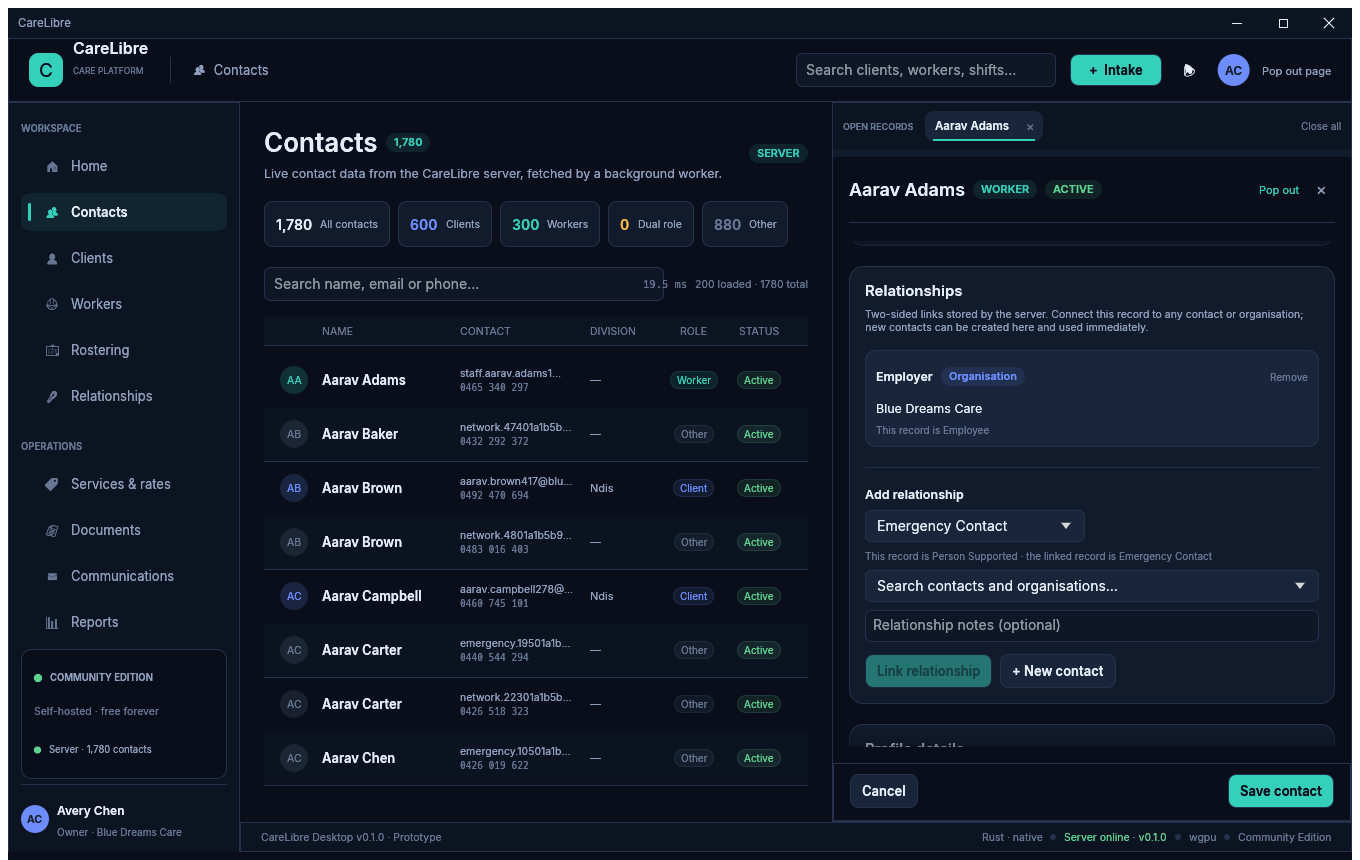
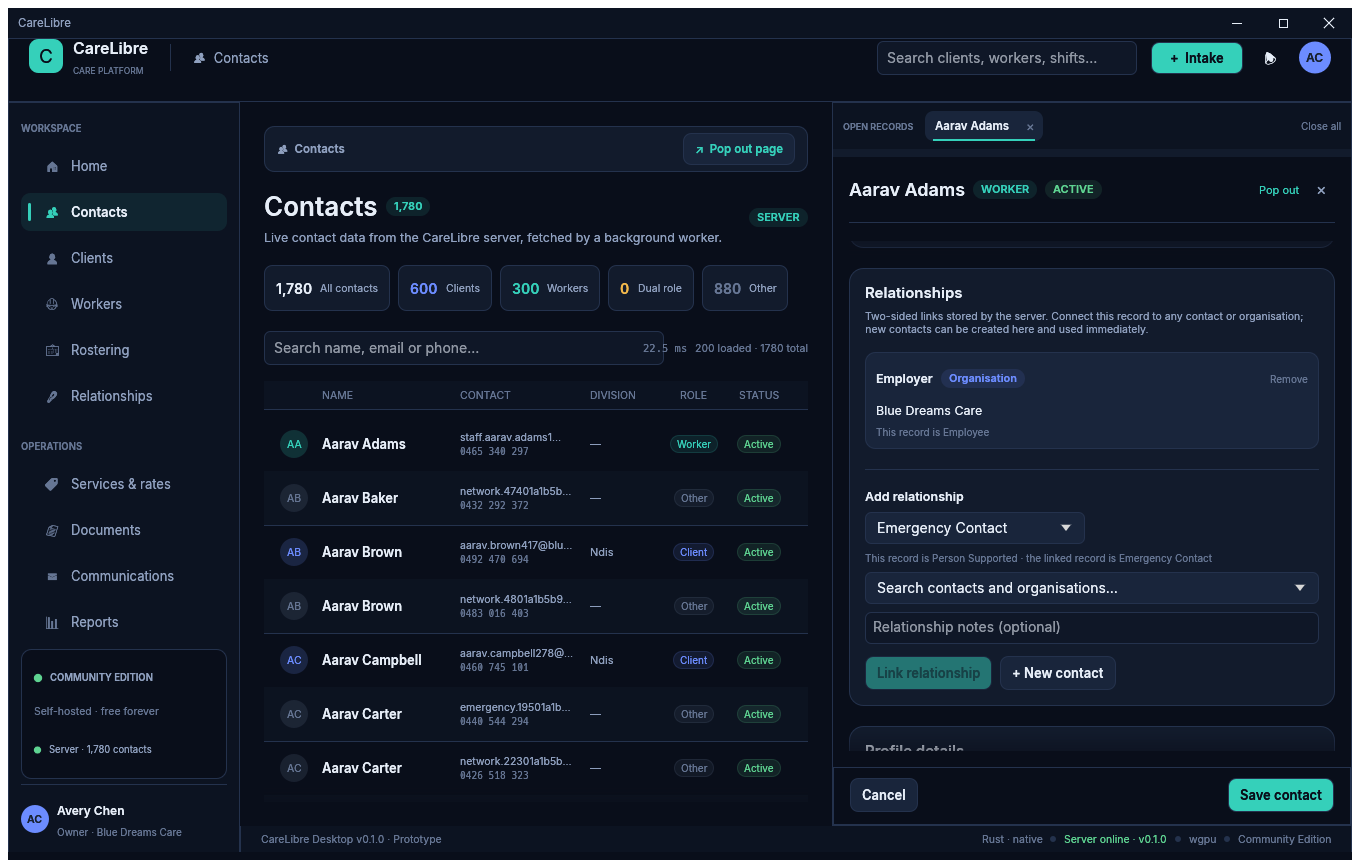
Move page pop-out into the pane toolbar
- Add a page toolbar at the top of the content pane showing the open page
  and a prominent “↗ Pop out page” / “↙ Dock page” button
- Remove the page pop-out control from the global top navigation so it is
  clear the action applies to the open page, not the whole interface
- Keep the existing labels and give the control an explicit accessible name
  alongside the new glyph
- Refresh the README screenshots and thumbnails with the new toolbar

diff --git a/src/app.rs b/src/app.rs
@@ -439,6 +439,8 @@ impl CareLibreApp {
                     .inner_margin(Margin::same(24)),
             )
             .show(ui, |ui| {
+                self.page_toolbar(ui);
+                ui.add_space(10.0);
                 if page_progress < 1.0 {
                     let enter = theme::ease_out(page_progress);
                     ui.multiply_opacity(0.35 + 0.65 * enter);
@@ -1242,6 +1244,58 @@ impl CareLibreApp {
         }
     }
 
+    /// The pane toolbar: identifies the open page and offers the page-level
+    /// pop-out control.
+    fn page_toolbar(&mut self, ui: &mut Ui) {
+        let page = self.page;
+        let popped = self.popped_pages.contains(&page);
+        let mut toggle = false;
+
+        Frame::new()
+            .fill(theme::surface())
+            .stroke(Stroke::new(1.0, theme::border()))
+            .corner_radius(CornerRadius::same(10))
+            .inner_margin(Margin::symmetric(12, 6))
+            .show(ui, |ui| {
+                ui.horizontal(|ui| {
+                    ui.label(
+                        RichText::new(format!("{}  {}", page.icon(), page.label()))
+                            .color(theme::muted())
+                            .font(theme::strong_font(11.5)),
+                    );
+                    ui.with_layout(Layout::right_to_left(Align::Center), |ui| {
+                        let label = if popped { "Dock page" } else { "Pop out page" };
+                        let glyph = if popped { "↙" } else { "↗" };
+                        let button = egui::Button::new(
+                            RichText::new(format!("{glyph}  {label}"))
+                                .color(theme::accent())
+                                .font(theme::strong_font(11.5)),
+                        )
+                        .fill(theme::surface_raised())
+                        .stroke(Stroke::new(1.0, theme::border()))
+                        .corner_radius(CornerRadius::same(8))
+                        .min_size(vec2(0.0, 30.0));
+                        let response = ui.add(button);
+                        response.widget_info(|| {
+                            egui::WidgetInfo::labeled(egui::Role::Button, true, label)
+                        });
+                        if response.clicked() {
+                            toggle = true;
+                        }
+                        response.on_hover_text(if popped {
+                            "Bring this page back into the main window"
+                        } else {
+                            "Open this page in its own native window"
+                        });
+                    });
+                });
+            });
+
+        if toggle {
+            self.toggle_page_popout(ui.ctx(), page);
+        }
+    }
+
     /// Placeholder shown in the main window when the current page lives in its
     /// own native window.
     fn detached_page_placeholder(&mut self, ui: &mut Ui) {
@@ -1358,7 +1412,7 @@ impl CareLibreApp {
                             .stroke(Stroke::new(1.0, theme::border())),
                     )
                     .show(ui, |ui| {
-                        ui.horizontal_centered(|ui| {
+                        ui.horizontal(|ui| {
                             ui.label(
                                 RichText::new(format!("{}  {}", page.icon(), page.label()))
                                     .color(theme::text())
@@ -3475,7 +3529,7 @@ impl CareLibreApp {
                     .stroke(Stroke::new(1.0, theme::border())),
             )
             .show(ui, |ui| {
-                ui.horizontal_centered(|ui| {
+                ui.horizontal(|ui| {
                     // Brand
                     let (logo, _) = ui.allocate_exact_size(vec2(34.0, 34.0), Sense::hover());
                     ui.painter()
@@ -3510,26 +3564,6 @@ impl CareLibreApp {
                     );
 
                     ui.with_layout(Layout::right_to_left(Align::Center), |ui| {
-                        let popped = self.popped_pages.contains(&self.page);
-                        let popout = ui.add(
-                            egui::Button::new(
-                                RichText::new(if popped { "Dock page" } else { "Pop out page" })
-                                    .color(theme::muted())
-                                    .size(11.0),
-                            )
-                            .frame(false),
-                        );
-                        if popout.clicked() {
-                            let page = self.page;
-                            self.toggle_page_popout(ui.ctx(), page);
-                        }
-                        popout.on_hover_text(if popped {
-                            "Bring this page back into the main window"
-                        } else {
-                            "Open this page in its own native window"
-                        });
-                        ui.add_space(4.0);
-
                         match &account {
                             Some(account) => {
                                 let response = theme::avatar(
@@ -3722,7 +3756,7 @@ impl CareLibreApp {
                     .stroke(Stroke::new(1.0, theme::border())),
             )
             .show(ui, |ui| {
-                ui.horizontal_centered(|ui| {
+                ui.horizontal(|ui| {
                     ui.label(
                         RichText::new("CareLibre Desktop v0.1.0 · Prototype")
                             .color(theme::faint())

diff --git a/tests/ui.rs b/tests/ui.rs
@@ -124,7 +124,7 @@ fn pages_can_pop_out_and_dock() {
     harness.run_steps(2);
     assert!(harness.state().page_popped_out(Page::Rostering));
 
-    harness.get_by_label("Dock page").click();
+    harness.get_by_label("Dock page").click_accesskit();
     harness.run_steps(2);
     assert!(!harness.state().page_popped_out(Page::Rostering));
 }
